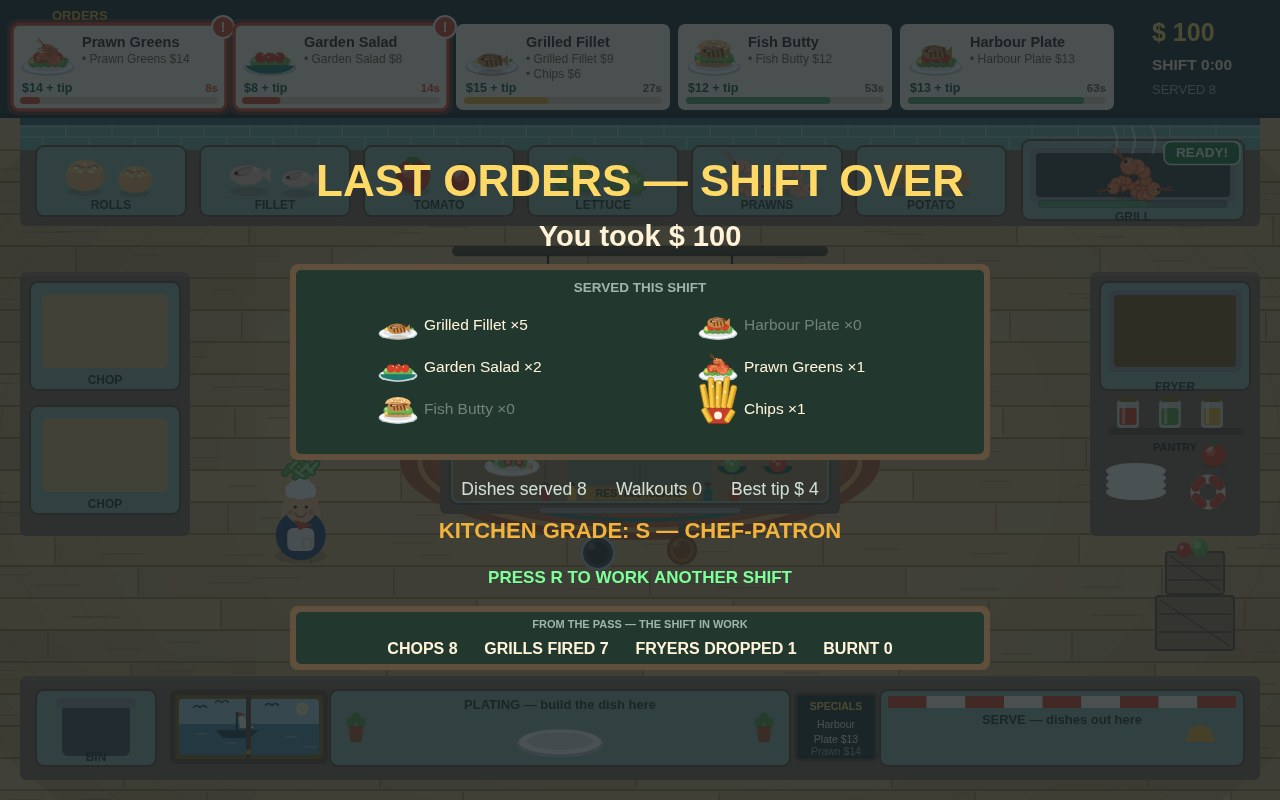
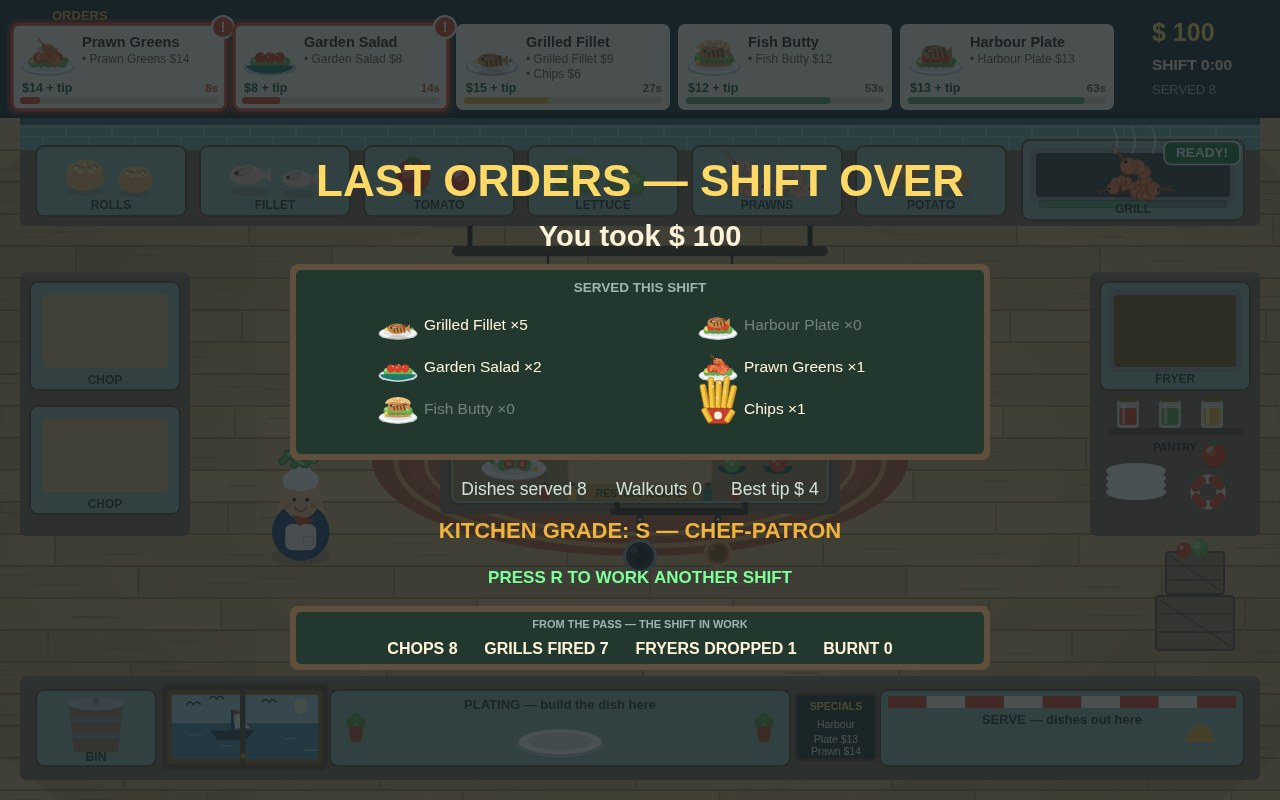
V13: the audit round — second board staged, popup pills, chef at 1.15, island re-dressed (tray, prep board, pan hardware), barrel bin, bigger window, title mise en place

diff --git a/game/src/render.js b/game/src/render.js
@@ -16,15 +16,23 @@ export function draw(ctx, state) {
   drawKitchen(ctx, state);
   drawChef(ctx, state);
   drawBoard(ctx, state);
-  // Floating score notes. Each one is clamped fully inside the frame, however
-  // long its text and wherever it was born — no more tips clipped at the edge.
+  // Floating score notes, each on a solid pill in its own colour — the same
+  // badge language as READY! / BURNT! / CUT!, so money and urgency are never
+  // the one voice in the room reduced to bare text on wood. Each pill is
+  // clamped fully inside the frame, however long its text and wherever it
+  // was born — no more tips clipped at the edge.
   for (const popup of state.popups) {
-    ctx.font = `700 19px ${FONT}`;
-    const half = ctx.measureText(popup.text).width / 2;
-    const px = Math.min(Math.max(popup.x, half + 8), VIEW.width - half - 8);
+    ctx.font = `700 17px ${FONT}`;
+    const w = ctx.measureText(popup.text).width + 26;
+    const px = Math.min(Math.max(popup.x, w / 2 + 8), VIEW.width - w / 2 - 8);
     const py = Math.max(popup.y, BOARD_H + 16);
     ctx.globalAlpha = Math.max(0, 1 - popup.t / popup.life);
-    text(ctx, popup.text, px, py, 19, popup.color);
+    ctx.fillStyle = popup.color;
+    rr(ctx, px - w / 2, py - 13, w, 26, 13); ctx.fill();
+    ctx.strokeStyle = 'rgba(255,255,255,0.9)';
+    ctx.lineWidth = 1.6;
+    rr(ctx, px - w / 2, py - 13, w, 26, 13); ctx.stroke();
+    text(ctx, popup.text, px, py + 0.5, 17, '#ffffff');
     ctx.globalAlpha = 1;
   }
   drawOverlays(ctx, state);
@@ -688,7 +696,10 @@ function drawMachine(ctx, state, station, machine) {
     if (machine.t >= burnAt) drawBadge(ctx, station.x + station.w - 42, station.y + 13, 'BURNT!', '#a93420');
     else if (machine.t >= cookAt) drawBadge(ctx, station.x + station.w - 42, station.y + 13, 'READY!', '#1e7d46');
   }
-  text(ctx, station.label, cx, station.y + station.h - 8 + 6, 12, '#22382e');
+  // The label sits inside its panel: centred on the station's foot it hung
+  // half below the teal onto the brown counter, and the edge line struck
+  // through the word.
+  text(ctx, station.label, cx, station.y + station.h - 10, 12, '#22382e');
 }
 
 function drawKitchen(ctx, state) {
@@ -749,10 +760,12 @@ function drawKitchen(ctx, state) {
     ctx.beginPath(); ctx.arc(0, 0, 400 + i * 44, 0, Math.PI * 2); ctx.stroke();
   }
   ctx.restore();
-  // One soft braided rug, and only one: under the island, ringed in the room's colours.
+  // One soft braided rug, and only one: under the island, ringed in the room's
+  // colours. It grows with the island it grounds, and wears two rings in its
+  // own stripe — a mat's border, not a target.
   ctx.fillStyle = COLORS.rug;
-  ctx.beginPath(); ctx.ellipse(640, 462, 240, 78, 0, 0, Math.PI * 2); ctx.fill();
-  for (const [rx, ry, col, wdt] of [[220, 68, COLORS.rugStripe, 5], [192, 58, COLORS.teal, 4], [164, 48, COLORS.rugStripe, 4]]) {
+  ctx.beginPath(); ctx.ellipse(640, 460, 268, 96, 0, 0, Math.PI * 2); ctx.fill();
+  for (const [rx, ry, col, wdt] of [[244, 84, COLORS.rugStripe, 5], [214, 72, COLORS.rugStripe, 4]]) {
     ctx.strokeStyle = col;
     ctx.lineWidth = wdt;
     ctx.beginPath(); ctx.ellipse(640, 462, rx, ry, 0, 0, Math.PI * 2); ctx.stroke();
@@ -813,7 +826,13 @@ function drawKitchen(ctx, state) {
   text(ctx, 'PANTRY', 1175, 448, 11, COLORS.ink);
   // One large harbour window set into the front of the left counter, where two
   // small portholes used to be: a wood frame, sky over sea, one fishing boat
-  // going about its business and gulls over the water.
+  // going about its business and gulls over the water. The whole drawing is
+  // scaled up a step inside the counter face — at its old size the boat was
+  // a speck at contact-sheet size, and the window is the room's identity.
+  ctx.save();
+  ctx.translate(162, 684);
+  ctx.scale(166 / 158, 86 / 74);
+  ctx.translate(-170, -690);
   ctx.fillStyle = '#5f4f3c';
   rr(ctx, 170, 690, 158, 74, 6); ctx.fill();
   ctx.fillStyle = '#8a6a24';
@@ -851,11 +870,13 @@ function drawKitchen(ctx, state) {
     ctx.beginPath(); ctx.arc(gx + 3.4, gy, 3.4, Math.PI * 1.15, Math.PI * 1.85); ctx.stroke();
   }
   ctx.restore();
-  // The frame's centre mullion and a brass latch.
+  ctx.restore();
+  // The frame's centre mullion and a brass latch, in the enlarged frame's
+  // own coordinates.
   ctx.fillStyle = '#5f4f3c';
-  ctx.fillRect(246, 695, 5, 64);
+  ctx.fillRect(240, 689, 5.5, 76);
   ctx.fillStyle = '#c99635';
-  ctx.beginPath(); ctx.arc(248.5, 752, 2.6, 0, Math.PI * 2); ctx.fill();
+  ctx.beginPath(); ctx.arc(243.5, 756, 2.8, 0, Math.PI * 2); ctx.fill();
   // The specials board, chalked on the pass between plating and serve.
   ctx.fillStyle = '#22382e';
   rr(ctx, 796, 694, 80, 66, 4); ctx.fill();
@@ -865,7 +886,7 @@ function drawKitchen(ctx, state) {
   text(ctx, 'SPECIALS', 836, 707, 10.5, '#ffd968');
   text(ctx, 'Harbour', 836, 725, 10.5, '#fff7e6', 'center', false);
   text(ctx, 'Plate $13', 836, 740, 10.5, '#fff7e6', 'center', false);
-  text(ctx, 'Prawn $14', 836, 752, 10.5, '#9fb4ac', 'center', false);
+  text(ctx, 'Prawn $14', 836, 752, 10.5, '#fff7e6', 'center', false);
   // Two fish crates stacked against the right counter by the serve window, the
   // morning's catch still in the top one.
   const crate = (x, y, w, h) => {
@@ -909,11 +930,14 @@ function drawKitchen(ctx, state) {
     } else if (station.kind === 'fryer') {
       drawMachine(ctx, state, station, state.fryer);
     } else if (station.kind === 'island') {
-      // The resting island, grown into the room's central workstation: a driftwood
-      // top with a herb trough along its back edge, a rest mat in the middle where
-      // the work-in-progress sits, a dressed resting plate at one end, garnish
-      // bowls at the other, sauce bottles flanking its name plate, and a utensil
-      // rail hanging on its front face.
+      // The resting island, the room's central workstation: a driftwood top
+      // with a herb trough along its back edge, a prep board in the middle
+      // where the work-in-progress sits, a dressed resting plate at one end,
+      // garnish bowls at the other, sauce bottles flanking its name plate,
+      // and pans on an iron rail below. (V13 tried growing the block itself;
+      // the difficulty audit measured that as a tax on every route — median
+      // score $85.5 → $70 — so the block keeps its honest size and the
+      // furnishing does the work instead. See work/v13/AUDIT-V13.md.)
       ctx.fillStyle = COLORS.driftwood;
       rr(ctx, station.x + 3, station.y + 3, station.w - 6, station.h - 6, 7); ctx.fill();
       ctx.strokeStyle = 'rgba(95,79,60,0.55)';
@@ -992,38 +1016,50 @@ function drawKitchen(ctx, state) {
         rr(ctx, px - 8, base - 12, 16, 3.6, 1.6); ctx.fill();
       };
       [46, 118, 190, 262, 334].forEach((off, i) => potHerb(station.x + off, i % 5));
-      // The rest mat, centre stage.
-      ctx.fillStyle = 'rgba(31,122,109,0.32)';
-      rr(ctx, station.x + 118, station.y + 25, station.w - 236, 40, 8); ctx.fill();
+      // The work surface, centre stage: a pale prep board scored by the
+      // knife, where a flat teal mat used to sit — the island's middle
+      // reads as a place where work happens.
+      ctx.fillStyle = '#d9b77c';
+      rr(ctx, station.x + 118, station.y + 25, station.w - 236, 40, 6); ctx.fill();
+      ctx.strokeStyle = '#b8934f';
+      ctx.lineWidth = 1.3;
+      rr(ctx, station.x + 118, station.y + 25, station.w - 236, 40, 6); ctx.stroke();
+      ctx.strokeStyle = 'rgba(122,84,40,0.35)';
+      ctx.lineWidth = 1;
+      for (const sx of [station.x + 136, station.x + 224]) {
+        ctx.beginPath(); ctx.moveTo(sx, station.y + 33); ctx.lineTo(sx + 14, station.y + 57); ctx.stroke();
+      }
       // A dressed resting plate at the left end: greens, tomato, a lemon wedge.
-      const rpX = station.x + 62;
-      const rpY = station.y + 46;
+      // Drawn a step larger than it was — at 27 across, its dressing collapsed
+      // into coloured dots on a white oval at contact-sheet size.
+      const rpX = station.x + 64;
+      const rpY = station.y + 48;
       ctx.fillStyle = 'rgba(74,44,16,0.18)';
-      ctx.beginPath(); ctx.ellipse(rpX, rpY + 3.5, 28, 7, 0, 0, Math.PI * 2); ctx.fill();
+      ctx.beginPath(); ctx.ellipse(rpX, rpY + 4, 33, 8, 0, 0, Math.PI * 2); ctx.fill();
       ctx.fillStyle = '#bfcbd0';
-      ctx.beginPath(); ctx.ellipse(rpX, rpY + 0.8, 27.8, 10, 0, 0, Math.PI * 2); ctx.fill();
+      ctx.beginPath(); ctx.ellipse(rpX, rpY + 1, 32.8, 11.5, 0, 0, Math.PI * 2); ctx.fill();
       ctx.fillStyle = '#ffffff';
-      ctx.beginPath(); ctx.ellipse(rpX, rpY, 27, 9.5, 0, 0, Math.PI * 2); ctx.fill();
+      ctx.beginPath(); ctx.ellipse(rpX, rpY, 32, 11, 0, 0, Math.PI * 2); ctx.fill();
       ctx.fillStyle = '#dfe5e8';
-      ctx.beginPath(); ctx.ellipse(rpX, rpY - 1, 20, 6.5, 0, 0, Math.PI * 2); ctx.fill();
+      ctx.beginPath(); ctx.ellipse(rpX, rpY - 1, 23.5, 7.5, 0, 0, Math.PI * 2); ctx.fill();
       ctx.fillStyle = '#6db457';
-      for (const [ox, oy] of [[-9, -3], [1, -5], [10, -3]]) {
-        ctx.beginPath(); ctx.arc(rpX + ox, rpY + oy, 5.6, 0, Math.PI * 2); ctx.fill();
+      for (const [ox, oy] of [[-10, -3], [1, -5.5], [11, -3]]) {
+        ctx.beginPath(); ctx.arc(rpX + ox, rpY + oy, 6.4, 0, Math.PI * 2); ctx.fill();
       }
       ctx.fillStyle = '#d8402a';
-      for (const ox of [-4, 7]) {
-        ctx.beginPath(); ctx.arc(rpX + ox, rpY - 4, 4.4, 0, Math.PI * 2); ctx.fill();
+      for (const ox of [-5, 8]) {
+        ctx.beginPath(); ctx.arc(rpX + ox, rpY - 4, 5, 0, Math.PI * 2); ctx.fill();
         ctx.fillStyle = '#f0927c';
-        ctx.beginPath(); ctx.arc(rpX + ox, rpY - 4, 2.4, 0, Math.PI * 2); ctx.fill();
+        ctx.beginPath(); ctx.arc(rpX + ox, rpY - 4, 2.8, 0, Math.PI * 2); ctx.fill();
         ctx.fillStyle = '#d8402a';
       }
       ctx.fillStyle = '#f7c948';
-      ctx.beginPath(); ctx.moveTo(rpX + 15, rpY + 2); ctx.lineTo(rpX + 21, rpY - 3); ctx.lineTo(rpX + 21, rpY + 4); ctx.closePath(); ctx.fill();
+      ctx.beginPath(); ctx.moveTo(rpX + 17, rpY + 2); ctx.lineTo(rpX + 24, rpY - 3.5); ctx.lineTo(rpX + 24, rpY + 4.5); ctx.closePath(); ctx.fill();
       // A garnish sprig on the resting plate too — the same finish as the pass.
       ctx.fillStyle = '#579a44';
-      ctx.beginPath(); ctx.ellipse(rpX - 19, rpY - 5, 3.4, 1.9, 0.7, 0, Math.PI * 2); ctx.fill();
+      ctx.beginPath(); ctx.ellipse(rpX - 21, rpY - 5.5, 3.8, 2.1, 0.7, 0, Math.PI * 2); ctx.fill();
       ctx.fillStyle = '#a5dd8f';
-      ctx.beginPath(); ctx.ellipse(rpX - 16.5, rpY - 2.8, 2.6, 1.5, 0.9, 0, Math.PI * 2); ctx.fill();
+      ctx.beginPath(); ctx.ellipse(rpX - 18, rpY - 3, 2.9, 1.7, 0.9, 0, Math.PI * 2); ctx.fill();
       // Two garnish bowls at the right end: chopped greens, diced tomato.
       const bowl = (bx, mound, fleck) => {
         ctx.fillStyle = 'rgba(74,44,16,0.15)';
@@ -1054,32 +1090,65 @@ function drawKitchen(ctx, state) {
       text(ctx, station.label, cx, station.y + station.h - 10, 10.5, '#22382e');
       if (state.island.item) {
         if (DISHES[state.island.item]) drawDish(ctx, state.island.item, cx, station.y + 42, 64);
-        else drawItem(ctx, state.island.item, cx, station.y + 41, 50);
+        else if (state.island.item.startsWith('prawns')) {
+          // Prawns resting on the island sit on a small steel tray, drawn one
+          // by one and spaced apart: the drawItem pile at this size merged
+          // into an orange scribble on the board, and the resting piece is the
+          // visible evidence of the route the player planned.
+          const it = state.island.item;
+          const ty = station.y + 46;
+          ctx.fillStyle = 'rgba(74,44,16,0.20)';
+          ctx.beginPath(); ctx.ellipse(cx, ty + 6, 46, 11, 0, 0, Math.PI * 2); ctx.fill();
+          ctx.fillStyle = '#8d979d';
+          ctx.beginPath(); ctx.ellipse(cx, ty + 2, 45, 12.5, 0, 0, Math.PI * 2); ctx.fill();
+          ctx.fillStyle = '#c3ced3';
+          ctx.beginPath(); ctx.ellipse(cx, ty, 41, 10.5, 0, 0, Math.PI * 2); ctx.fill();
+          const cols = it === 'prawns_raw' ? { body: '#e8ab90', line: '#bd7f63' }
+            : it === 'prawns_grilled' ? { body: '#f4834f', line: '#c25227' }
+            : { body: '#503a2c', line: '#2e2019' };
+          const sheen = it !== 'prawns_burnt';
+          for (const [ox, oy, rot, sc] of [[-23, 1, 0.35, 0.92], [1, -3, 2.45, 0.85], [24, 1, -0.85, 0.9]]) {
+            ctx.save();
+            ctx.translate(cx + ox, ty + oy);
+            ctx.scale(sc, sc);
+            drawPrawn(ctx, cols, rot, sheen);
+            ctx.restore();
+          }
+        } else drawItem(ctx, state.island.item, cx, station.y + 41, 50);
       }
-      // Two pans hang from the rail on the island's front face — one dark iron,
-      // one copper — drawn big enough to read as cookware at contact-sheet
-      // size, where the old rail of slim utensils all but vanished.
-      ctx.fillStyle = COLORS.steelDark;
-      rr(ctx, station.x + 90, station.y + station.h + 4, station.w - 180, 5, 2.5); ctx.fill();
+      // Two pans hang from a rail under the island's front edge — one dark
+      // iron, one copper. The rail is iron and thick enough to see, with
+      // end brackets rising to the counter's edge, and each pan hangs from
+      // a dark strap with its hanging hole punched at the top: cookware on
+      // hardware, where the old mid-grey rail vanished against the rug and
+      // left two circles floating over the floor.
+      ctx.fillStyle = '#2b2320';
+      rr(ctx, station.x + 160, station.y + station.h + 4, 138, 7, 3); ctx.fill();
+      for (const bx of [station.x + 164, station.x + 292]) {
+        rr(ctx, bx, station.y + station.h - 2, 6, 13, 2); ctx.fill();
+      }
       const pan = (px, r, body, rim, inner) => {
-        const top = station.y + station.h + 9;
-        // The handle: a flat strap from the rail down to the pan's rim.
-        ctx.fillStyle = '#6d6257';
-        rr(ctx, px - 3.5, top, 7, 22, 3); ctx.fill();
+        const top = station.y + station.h + 11;
+        // The strap: dark iron from the rail down to the pan's rim, its
+        // hanging hole showing the floor through it.
+        ctx.fillStyle = '#2b2320';
+        rr(ctx, px - 3.5, top, 7, 24, 3); ctx.fill();
+        ctx.fillStyle = '#dec48f';
+        ctx.beginPath(); ctx.arc(px, top + 4.5, 1.8, 0, Math.PI * 2); ctx.fill();
         // The pan itself: body first, a bright rim around it, the dark
         // cooking face inside, and one soft highlight on the metal.
         ctx.fillStyle = body;
-        ctx.beginPath(); ctx.arc(px, top + 22 + r, r, 0, Math.PI * 2); ctx.fill();
+        ctx.beginPath(); ctx.arc(px, top + 24 + r, r, 0, Math.PI * 2); ctx.fill();
         ctx.strokeStyle = rim;
         ctx.lineWidth = 3;
-        ctx.beginPath(); ctx.arc(px, top + 22 + r, r - 1.5, 0, Math.PI * 2); ctx.stroke();
+        ctx.beginPath(); ctx.arc(px, top + 24 + r, r - 1.5, 0, Math.PI * 2); ctx.stroke();
         ctx.fillStyle = inner;
-        ctx.beginPath(); ctx.arc(px, top + 22 + r, r * 0.6, 0, Math.PI * 2); ctx.fill();
+        ctx.beginPath(); ctx.arc(px, top + 24 + r, r * 0.6, 0, Math.PI * 2); ctx.fill();
         ctx.fillStyle = 'rgba(255,255,255,0.20)';
-        ctx.beginPath(); ctx.arc(px - r * 0.34, top + 22 + r - r * 0.36, r * 0.2, 0, Math.PI * 2); ctx.fill();
+        ctx.beginPath(); ctx.arc(px - r * 0.34, top + 24 + r - r * 0.36, r * 0.2, 0, Math.PI * 2); ctx.fill();
       };
-      pan(station.x + 148, 18, '#43484b', COLORS.steel, '#2e3235');
-      pan(station.x + 232, 15, '#b87333', '#8c5524', '#96582a');
+      pan(station.x + 190, 17, '#33373b', '#9aa4a9', '#22252a');
+      pan(station.x + 268, 14, '#b87333', '#e0a266', '#8c5524');
     } else if (station.kind === 'board') {
       const board = state.boards.find((b) => b.station === station);
       ctx.fillStyle = '#d9b77c';
@@ -1102,10 +1171,21 @@ function drawKitchen(ctx, state) {
       }
       text(ctx, station.label, cx, station.y + station.h - 9, 12, '#22382e');
     } else if (station.kind === 'trash') {
-      ctx.fillStyle = '#4c565b';
-      rr(ctx, station.x + 26, station.y + 14, station.w - 52, station.h - 24, 6); ctx.fill();
+      // The bin is a harbour barrel, made of the room's own materials —
+      // driftwood staves and steel bands — where a flat grey box used to
+      // read as a UI widget dropped into the kitchen.
+      ctx.fillStyle = COLORS.driftwood;
+      ctx.beginPath();
+      ctx.moveTo(cx - 27, station.y + 16); ctx.lineTo(cx + 27, station.y + 16);
+      ctx.lineTo(cx + 22, station.y + station.h - 14); ctx.lineTo(cx - 22, station.y + station.h - 14);
+      ctx.closePath(); ctx.fill();
       ctx.fillStyle = COLORS.steelDark;
-      rr(ctx, station.x + 20, station.y + 8, station.w - 40, 10, 4); ctx.fill();
+      ctx.fillRect(cx - 25.5, station.y + 28, 51, 5);
+      ctx.fillRect(cx - 23.5, station.y + 44, 47, 5);
+      ctx.fillStyle = COLORS.steel;
+      ctx.beginPath(); ctx.ellipse(cx, station.y + 14, 28, 6.5, 0, 0, Math.PI * 2); ctx.fill();
+      ctx.fillStyle = COLORS.steelDark;
+      ctx.beginPath(); ctx.arc(cx, station.y + 12, 3.4, 0, Math.PI * 2); ctx.fill();
       text(ctx, 'BIN', cx, station.y + station.h - 8, 12, '#22382e');
     } else if (station.kind === 'plating') {
       text(ctx, 'PLATING — build the dish here', cx, station.y + 15, 13, '#22382e');
@@ -1166,8 +1246,12 @@ function drawKitchen(ctx, state) {
   // A lamp rail over the island with two enamel pendants hanging from it.
   // Their warm pool over the island is most of why the middle of the room
   // feels like evening service instead of a bare floor with a table on it.
+  // The rail is carried on two iron uprights from the back counter's edge —
+  // at its old span it floated over the floor, supported by nothing.
   ctx.fillStyle = 'rgba(255,205,120,0.07)';
-  ctx.beginPath(); ctx.ellipse(640, 462, 208, 64, 0, 0, Math.PI * 2); ctx.fill();
+  ctx.beginPath(); ctx.ellipse(640, 460, 232, 80, 0, 0, Math.PI * 2); ctx.fill();
+  ctx.fillStyle = '#2b2320';
+  for (const ux of [470, 810]) ctx.fillRect(ux - 2.5, 226, 5, 24);
   ctx.fillStyle = '#4a3b2a';
   rr(ctx, 452, 246, 376, 10, 5); ctx.fill();
   ctx.fillStyle = 'rgba(0,0,0,0.15)';
@@ -1211,6 +1295,14 @@ export function chefStrained(state) {
 function drawChef(ctx, state) {
   const chef = state.chef;
   const bob = Math.sin(chef.walk) * 2.4;
+  // Drawn a step larger than his collision circle: the room is big and the
+  // cook is its only character — at his old size he read as a token on the
+  // floor instead of the person working it. The scale pivots on his feet,
+  // so he grows upward from where he stands; nothing mechanical reads it.
+  ctx.save();
+  ctx.translate(chef.x, chef.y + 27);
+  ctx.scale(1.15, 1.15);
+  ctx.translate(-chef.x, -(chef.y + 27));
   // The cook's face answers the pressure on the board: brows down, mouth
   // flat, sweat flying — whenever a ticket is dying or the board is full.
   const strained = chefStrained(state);
@@ -1316,6 +1408,7 @@ function drawChef(ctx, state) {
     if (dish) drawDish(ctx, chef.carry, x, y - 62, 66, false);
     else drawItem(ctx, chef.carry, x, y - 60, 46, false);
   }
+  ctx.restore();
 }
 
 function drawBoard(ctx, state) {

diff --git a/game/src/shots.js b/game/src/shots.js
@@ -41,6 +41,8 @@ function cover() {
   s.fryer = { item: 'potato_cut', t: 3.8 }; // chips ready to lift
   s.boards[0].item = 'tomato';
   s.boards[0].chops = 2; // mid-chop, one press from done
+  s.boards[1].item = 'lettuce';
+  s.boards[1].chops = 1; // a second dish in flight on the far board — no blank panel on the cover
   s.plate = ['fillet_grilled', 'lettuce_cut']; // a Harbour Plate mid-assembly
   s.island.item = 'prawns_grilled'; // grilled prawns resting on the island, mid-route
   s.passDish = 'fillet'; // a finished plate resting on the pass
@@ -56,8 +58,15 @@ function cover() {
 function title() {
   const s = createGame(7);
   s.phase = 'title';
-  s.chef.x = 640;
-  s.chef.y = 596;
+  // Mise en place: the boards are loaded before doors — whole ingredients
+  // resting, no presses yet — so the quiet kitchen behind the menu reads
+  // as a set kitchen, not an unbuilt one.
+  s.boards[0].item = 'tomato';
+  s.boards[1].item = 'lettuce';
+  // Clear of the instruction lines, which cross the room's middle band:
+  // at centre the text cut the cook in half.
+  s.chef.x = 170;
+  s.chef.y = 632;
   return s;
 }
 
